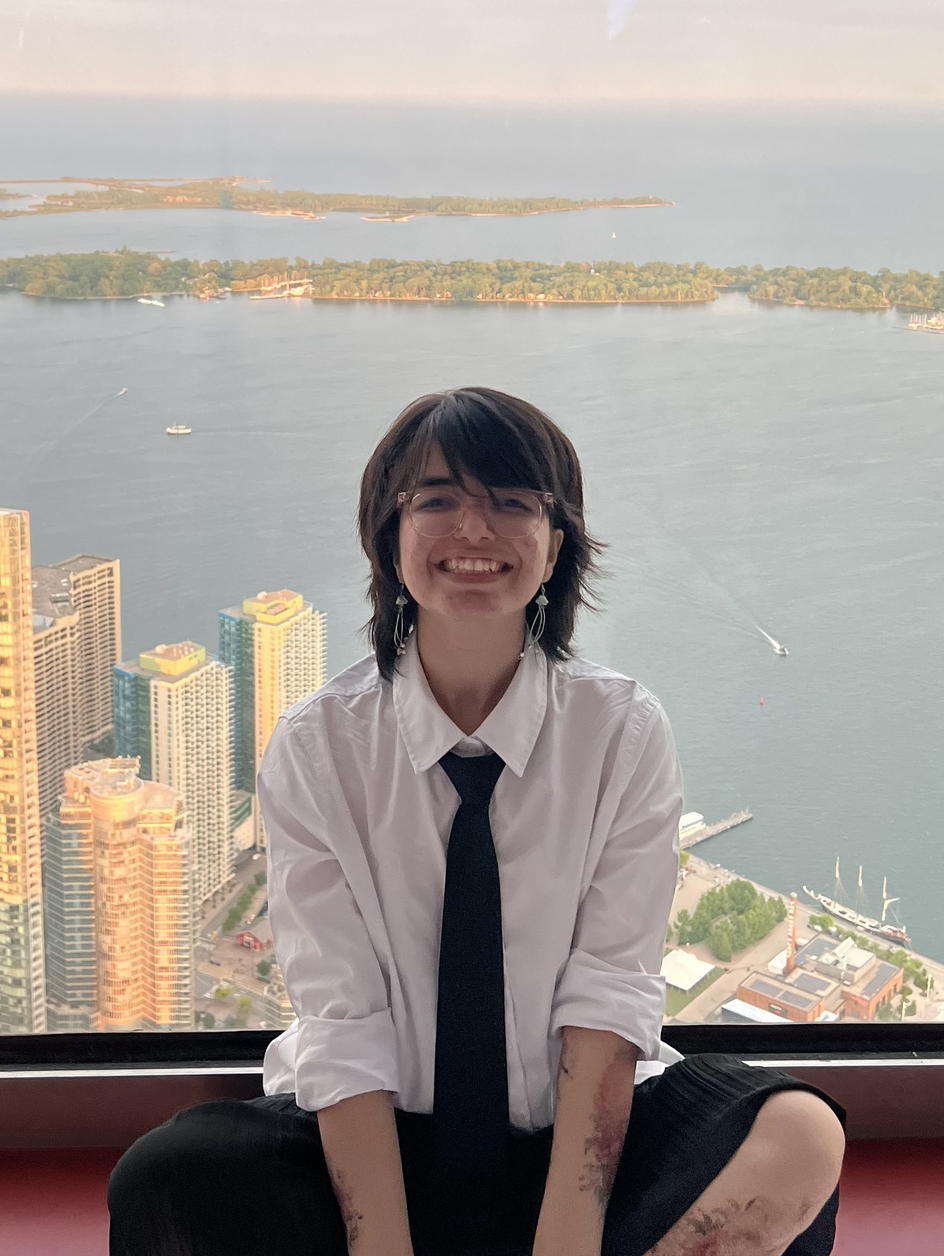
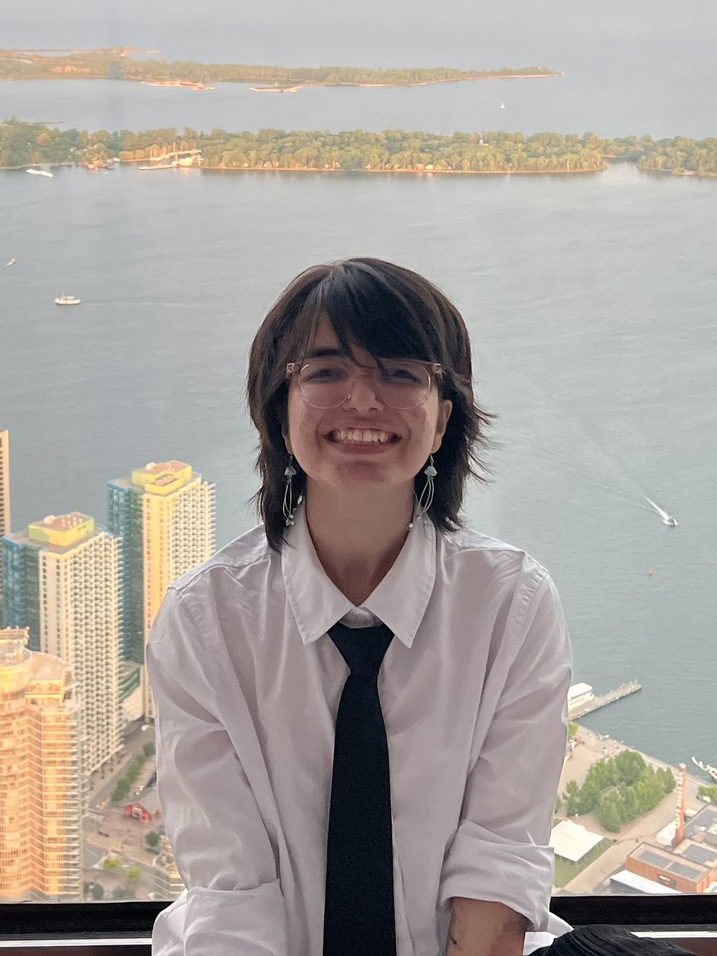
edits

diff --git a/index.html b/index.html
@@ -60,10 +60,10 @@
 
     <div class="page-content">
       <div class="wrapper">
-        <p><img align="left" src="ellenor.jpg" alt="Me" style="width: 190px; border-radius: 15px" /></p>
+        <p><img align="left" src="ellenor.jpg" alt="Me" style="width: 250px; border-radius: 15px" /></p>
 
 <h2 id="about-me">About me</h2>
-I am a first-year PhD student at Simon Fraser University in the Programmin Languages group. Im fortunate to be advised by <a href="https://cs.sfu.ca/~miltner/"> Anders Miltner</a>.
+I am a first-year PhD student at Simon Fraser University in the Programming Languages group. Im fortunate to be advised by <a href="https://cs.sfu.ca/~miltner/"> Anders Miltner</a>.
 I finished my Bachelor's and 
 
 <div>
